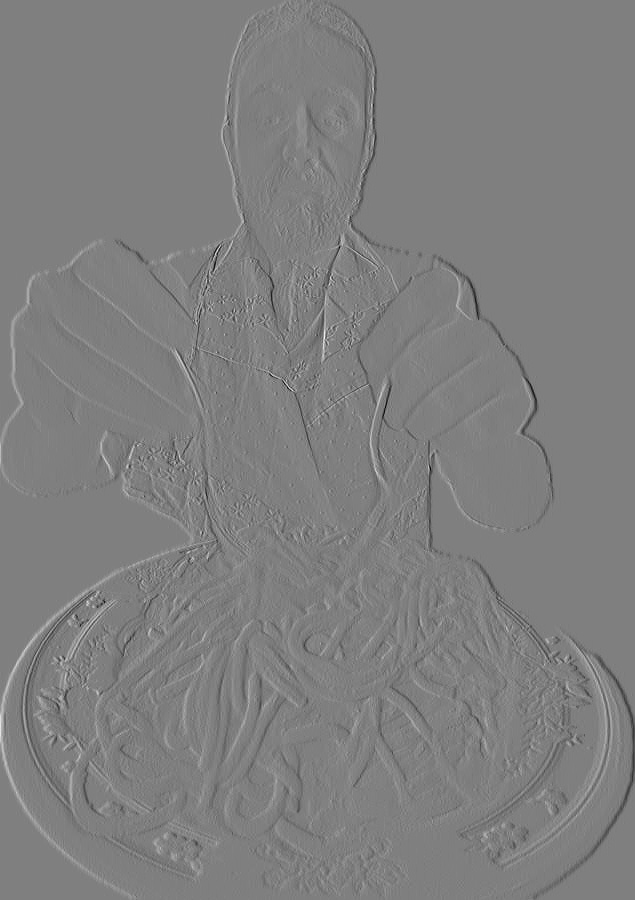
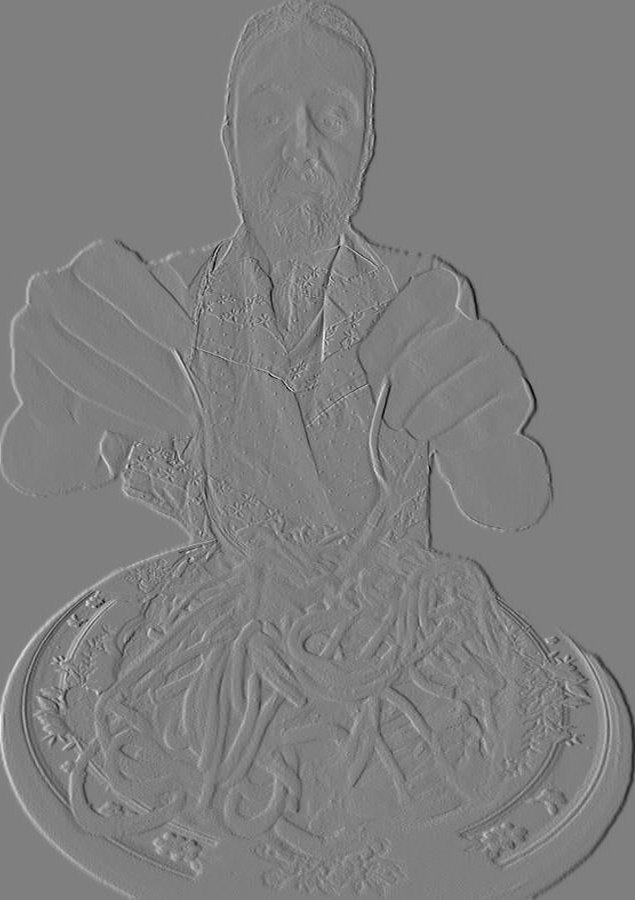
Use central difference operators for Dx and Dy

diff --git a/Assignment 2/src/common.py b/Assignment 2/src/common.py
@@ -11,8 +11,8 @@ DATA_DIR = Path(__file__).resolve().parent.parent / "data"
 WEB_DIR = Path(__file__).resolve().parents[2] / "website" / "images" / "assignment-2"
 
 # Finite difference operators
-DX = np.array([[1.0, -1.0]])
-DY = np.array([[1.0], [-1.0]])
+DX = np.array([[1.0, 0.0, -1.0]])
+DY = DX.T
 
 
 def load_image(path, gray=False):

diff --git a/website/_assignments/assignment-2.md b/website/_assignments/assignment-2.md
@@ -61,7 +61,7 @@ The box filter is `np.ones((9, 9)) / 81`, applied to a 635 x 900 grayscale image
 
 | Method | Runtime (s) | Max abs difference from scipy |
 |--------|-------------|-------------------------------|
-| Four loops | 21.19 | 2.98e-08 |
+| Four loops | 20.32 | 2.98e-08 |
 | Two loops | 2.98 | 2.98e-08 |
 | `scipy.signal.convolve2d` | 0.10 | - |
 
@@ -69,7 +69,7 @@ The box filter is `np.ones((9, 9)) / 81`, applied to a 635 x 900 grayscale image
 
 #### Finite difference operators
 
-$$ D_x = \begin{bmatrix} 1 & -1 \end{bmatrix}, \quad D_y = \begin{bmatrix} 1 \\ -1 \end{bmatrix} $$
+$$ D_x = \begin{bmatrix} 1 & 0 & -1 \end{bmatrix}, \quad D_y = \begin{bmatrix} 1 \\ 0 \\ -1 \end{bmatrix} $$
 
 Computed with the two-loop convolution. Mid grey is zero.
 
